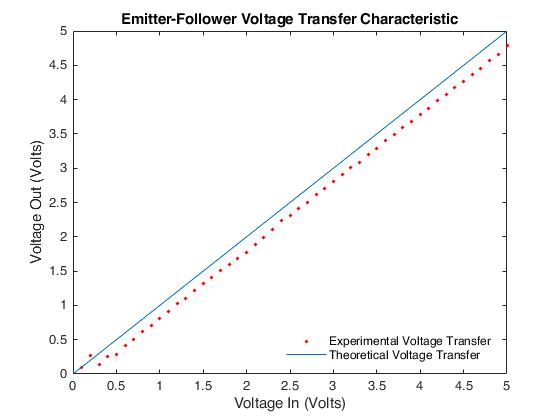
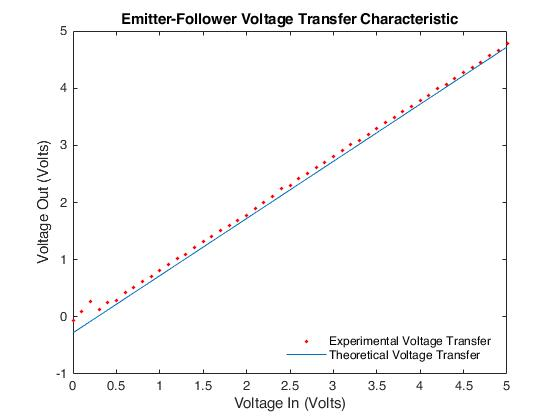
experiment 4...

diff --git a/Lab_3_Resistors_and_Bipolar_Transistors/data_and_code/experiment_four.m b/Lab_3_Resistors_and_Bipolar_Transistors/data_and_code/experiment_four.m
@@ -55,8 +55,9 @@ T_Exp4_200 = zeros(501, 1);
 % m = 2 theoretical plot.
 for i = 1:length(T_Exp4_200)
     % Difference in voltage divided by m+1 gives the inflection point.
-    if (Vin_Exp4_200(i) >= 2.36)
+    if (Vin_Exp4_200(i) >= 2.30)
         T_Exp4_200(i) = (Vin_Exp4_200(i)) - .65;
+        % Slope of this line is 
     elseif (Vin_Exp4_200(i) > .65) 
         T_Exp4_200(i) = 5 + 200*(Ic100(i));
     else
@@ -70,7 +71,7 @@ T_Exp4_300 = zeros(501, 1);
 % m = 2 theoretical plot.
 for i = 1:length(T_Exp4_300)
     % Difference in voltage divided by m+1 gives the inflection point.
-    if (Vin_Exp4_300(i) >= 1.94) 
+    if (Vin_Exp4_300(i) >= 1.955) 
         T_Exp4_300(i) = (Vin_Exp4_300(i)) - .65;
     elseif (Vin_Exp4_300(i) > .65) 
         T_Exp4_300(i) = 5 + 300*(Ic100(i));
@@ -86,7 +87,7 @@ T_Exp4_400 = zeros(501, 1);
 
 for i = 1:length(T_Exp4_400)
     % Difference in voltage divided by m+1 gives the inflection point.
-    if (Vin_Exp4_400(i) >= 1.69)
+    if (Vin_Exp4_400(i) >= 1.75)
         T_Exp4_400(i) = (Vin_Exp4_400(i)) - .65;
     elseif (Vin_Exp4_400(i) > .65) 
         T_Exp4_400(i) = 5 + 400*(Ic100(i));
@@ -116,5 +117,6 @@ legend('Experimental Emitter-Follower', 'Theoretical Emitter-Follower', ...
        'Theoretical Common-Emmmitter Aplifier, 400 Ohms');
 legend('boxoff');
 legend('Location','southeast');
+resizeLegend(); 
 
 hold off;

diff --git a/Lab_3_Resistors_and_Bipolar_Transistors/data_and_code/experiment_three.m b/Lab_3_Resistors_and_Bipolar_Transistors/data_and_code/experiment_three.m
@@ -4,7 +4,7 @@ load('collected_data.mat');
 % Voltage Transfer Characteristic.
 plot(Vin_Exp3, Vout_Exp3,  '*r','MarkerSize',2);
 hold on;
-plot(Vin_Exp3, Vin_Exp3);
+plot(Vin_Exp3, Vin_Exp3 - .28);
 
 title( "Emitter-Follower Voltage Transfer Characteristic");
 ylabel("Voltage Out (Volts)");
